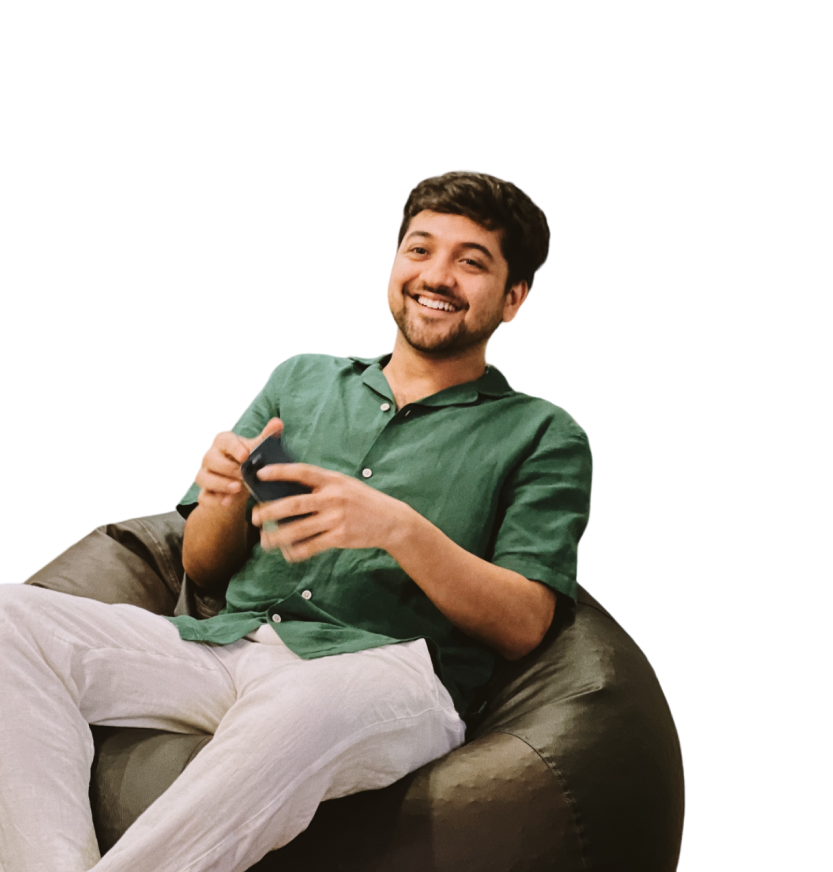
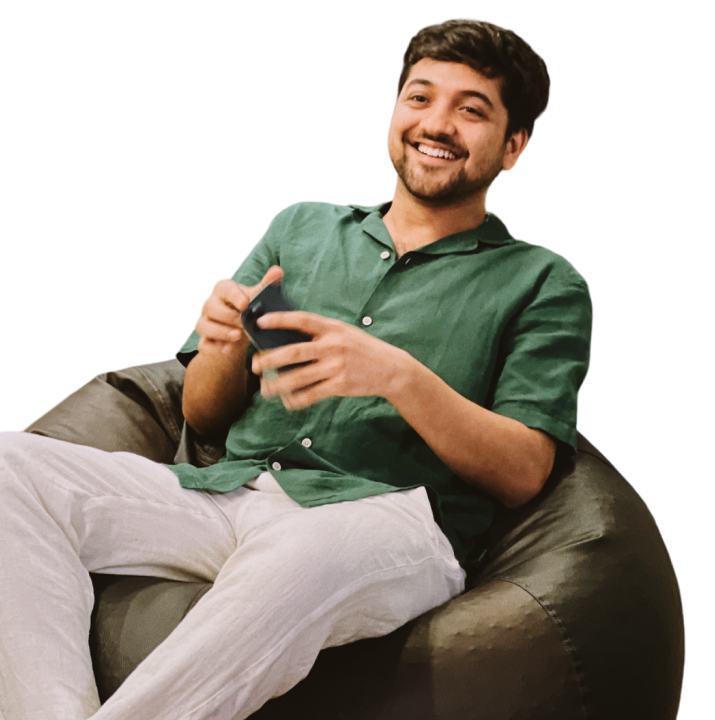
fix about page

diff --git a/about.html b/about.html
@@ -70,13 +70,12 @@
     <!-- Innerpage banner section start here  -->
     <div class="inner-banner-sec " style="height: 70vh;">
         <div class="inner-overlay"></div>
-
         <img class=" inner-banner-img img-fluid" src="./assets/img/aboutpage/about-page-bg.png" alt="">
     </div>
 
     <!-- about section in inner page  -->
     <section>
-        <div class="container bg-dark founder-sec" style="border-top-right-radius: 100px;">
+        <div class="container bg-dark founder-sec">
             <div class="row pt-3 ">
                 <div class="col-md-6 col-sm-12">
                     <div class="founder-img">

diff --git a/assets/css/responsive.css b/assets/css/responsive.css
@@ -53,9 +53,14 @@
         width: 93%;
         margin: auto;
         margin-top: -10px;
-
+    }
+    .founder-sec .row{
+        flex-direction: column-reverse !important;
     }
 
+    .founder-img img{
+        position: relative;
+    }
 }
 
 /* // Medium devices (tablets, less than 992px) */

diff --git a/assets/css/style.css b/assets/css/style.css
@@ -815,6 +815,7 @@ footer li a {
 
 .founder-sec {
     margin-top: -10rem;
+    border-top-right-radius: 10rem;
 }
 
 .founder-img {
